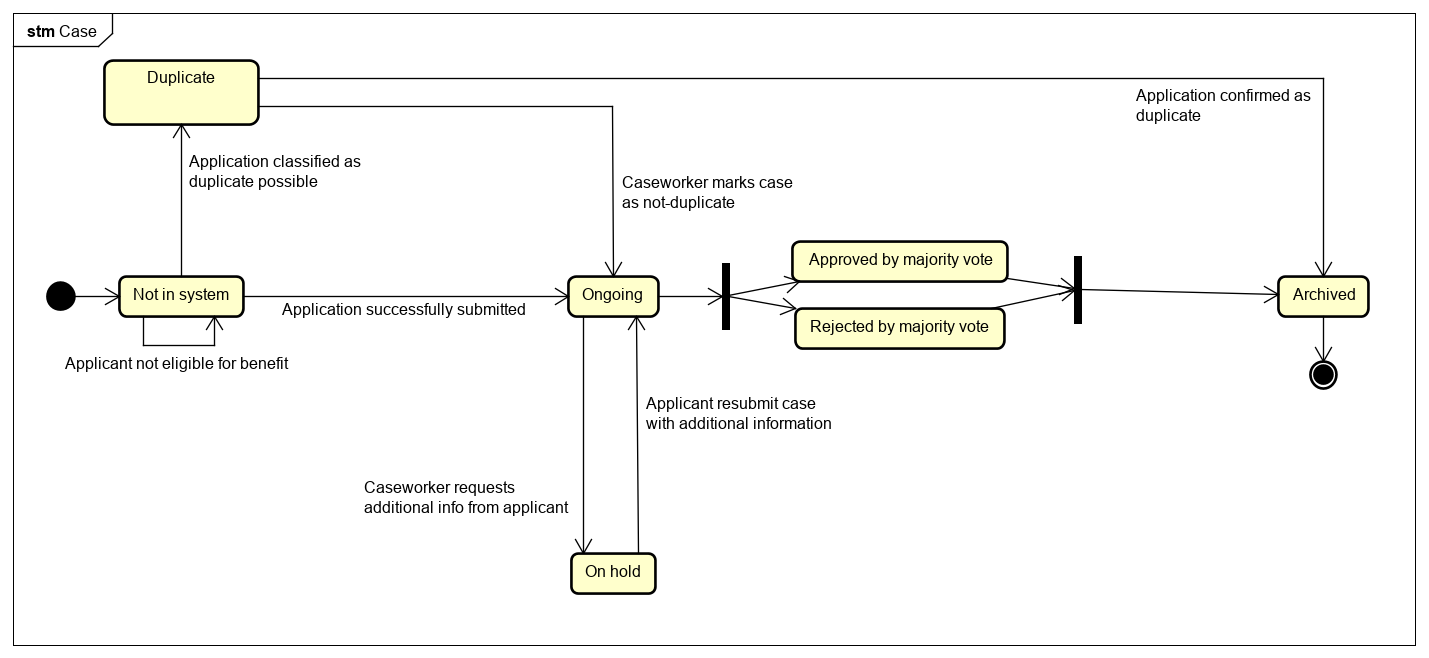
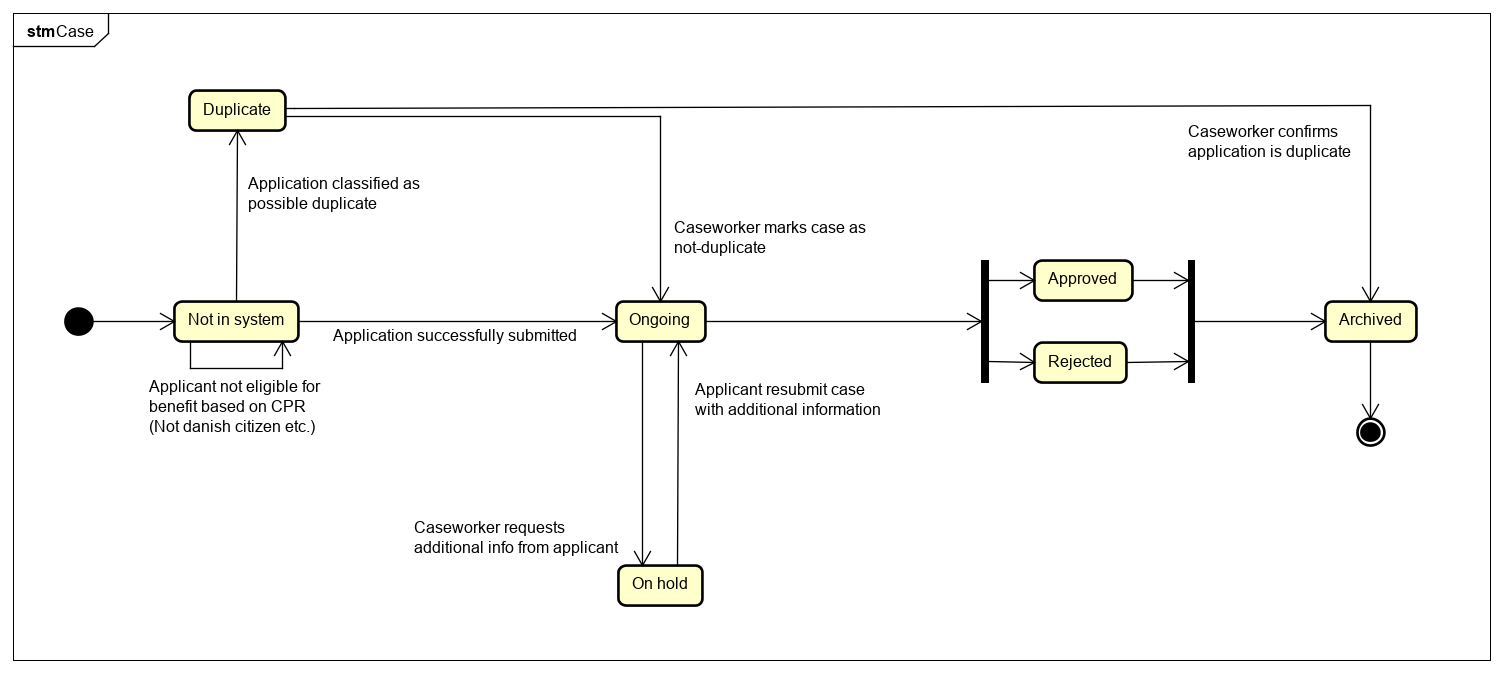
Update on Overleaf.

Changed region(s): [[0.0308, 0.2432, 0.9853, 0.9119], [0.0, 0.0, 0.9237, 0.3343], [0.0308, 0.9726, 0.9853, 1.0]]

diff --git a/design_document/08-identify-boundary-conditions.tex b/design_document/08-identify-boundary-conditions.tex
@@ -1,5 +1,7 @@
 \subsection{Identify Boundary Conditions}
     \subsubsection{System boot}
+    A \texttt{Supervisor} or \texttt{Caseworker} starts the \texttt{Case manager Server}, as soon as the Servers initialization is complete. Then the applicants, supervisors and caseworkers can initiate any of their use cases. 
     
     \subsubsection{System shutdown}
-    \subsubsection{Exception use cases}
+    A \texttt{Supervisor} or \texttt{Caseworker} stops the \texttt{Case manager Server}, any still ongoing cases (in creation of applicants) will be stored.
+    As soon as the shutdown complete it won't be possible to create or modify any cases anymore.

diff --git a/03-functional-requirements.tex b/03-functional-requirements.tex
@@ -21,7 +21,7 @@ A caseworker can set a case on hold if the documentation is insufficient. In suc
 
 \vspace{2mm}
 
-In case the System annotated a case as a possible duplicate and the caseworker decides this to be true, then the case state must be changed to rejected.
+A duplicate cases are annotated and it is clear for the caseworker, that they are as such. The caseworker   In case the System annotated a case as a possible duplicate and the caseworker decides this to be true, then the case state must be changed to rejected.
 
 \vspace{2mm}
 

diff --git a/design_document/07-identify-services.tex b/design_document/07-identify-services.tex
@@ -1,2 +1,7 @@
+\newpage
 \subsection{Identify services}
-
+\begin{figure}[htb!]
+    \centering
+    \includegraphics[width=\textwidth]{img/cmp-services.png}
+    \caption{Services}
+\end{figure}
